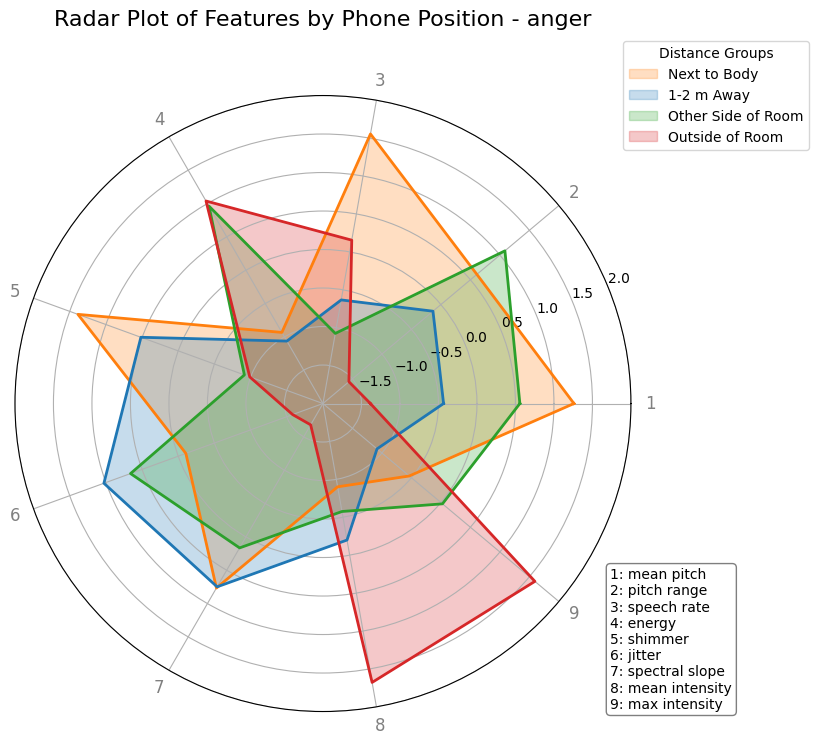
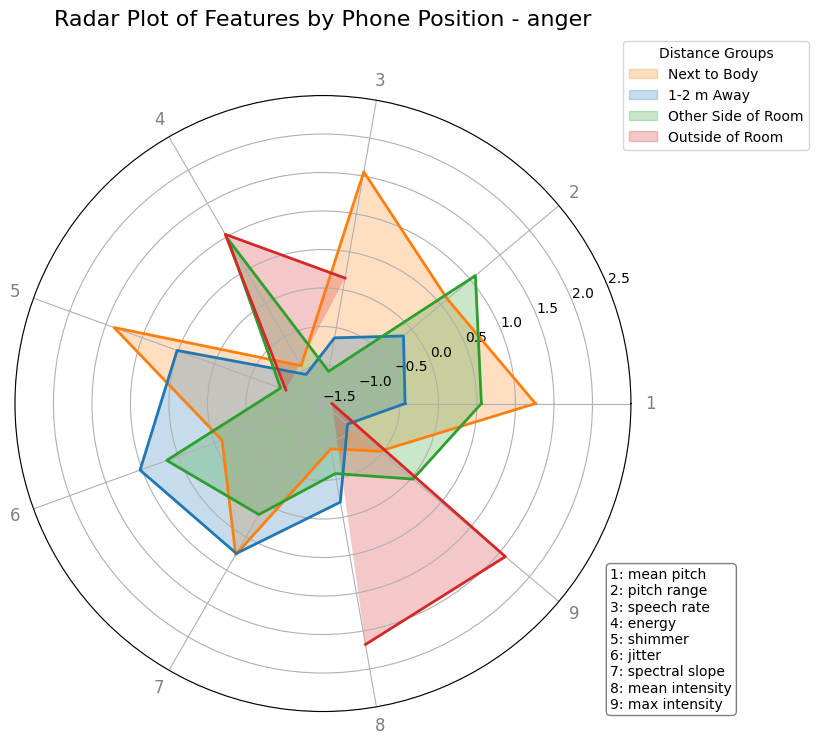
added same scaling

Changed region(s): [[0.0917, 0.1852, 0.7029, 0.9262], [0.7029, 0.3705, 0.7335, 0.4013]]

diff --git a/radarPlotNewFeatures.py b/radarPlotNewFeatures.py
@@ -99,7 +99,8 @@ def create_radar_plot_emotion(data, categories, title, filename):
 
     plt.xticks(angles[:-1], axis_labels, color='grey', size=12)
     ax.yaxis.grid(True)
-    ax.set_ylim(-2.2, 2)  # Adjust based on the data
+    ax.set_ylim(-1.5, 2.5)  # Adjust based on the data
+    ax.set_yticks([-1.5,-1.0,-0.5, 0, 0.5, 1.0, 1.5, 2.0, 2.5])  # Fixed ticks at -1.5, 0, and 2.5
     plt.title(title, size=16, y=1.1)
     
     # legend for emotions
@@ -183,7 +184,8 @@ def create_radar_plot_distance(data, categories, title, filename):
 
     plt.xticks(angles[:-1], axis_labels, color='grey', size=12)
     ax.yaxis.grid(True)
-    ax.set_ylim(-2, 1.7)  # Adjust based on the data
+    ax.set_ylim(-1.5, 2.5)  # Adjust based on the data
+    ax.set_yticks([-1.5,-1.0,-0.5, 0, 0.5, 1.0, 1.5, 2.0, 2.5])  # Fixed ticks at -1.5, 0, and 2.5
     plt.title(title, size=16, y=1.1)
     plt.legend(loc='upper right', bbox_to_anchor=(1.3, 1.1), title="Distance Groups")
 
@@ -192,6 +194,85 @@ def create_radar_plot_distance(data, categories, title, filename):
 
 # Create radar plot for distance groups
 create_radar_plot_distance(normalized_distance_data, FEATURES, "Radar Plot of Features by Phone Position Groups", "radar_plot_distance_groups.png")
+
+#per emotion
+# Function to create radar plot for a single emotion
+def create_radar_distance_per_emotion(data, emotion, categories, title, filename):
+    num_vars = len(categories)
+    angles = [n / float(num_vars) * 2 * pi for n in range(num_vars)]
+    angles += angles[:1]
+
+    # Number the axes
+    axis_labels = list(range(1, len(categories) + 1))
+
+    # Sorting the groups to control legend order
+    sorted_data = data.sort_values(by='distance_group', key=lambda x: x.map({
+        'Next to Body': 1,
+        '1-2 m Away': 2,
+        'Other Side of Room': 3,
+        'Outside of Room': 4
+    }))
+
+    fig, ax = plt.subplots(figsize=(10, 8), subplot_kw=dict(polar=True))
+    colors = plt.cm.tab10(range(len(data)))
+
+    for i, row in sorted_data.iterrows():
+        values = row.drop('distance_group').values.flatten().tolist()
+        values += values[:1]
+        ax.fill(angles, values, alpha=0.25, color=colors[i], label=row['distance_group'])
+        ax.plot(angles, values, linewidth=2, color=colors[i])
+
+    plt.xticks(angles[:-1], axis_labels, color='grey', size=12)
+    ax.yaxis.grid(True)
+    ax.set_ylim(-1.5, 2.5)  # Adjust based on the data
+    ax.set_yticks([-1.5,-1.0,-0.5, 0, 0.5, 1.0, 1.5, 2.0, 2.5])  # Fixed ticks at -1.5, 0, and 2.5
+    plt.title(f"{title} - {emotion}", size=16, y=1.1)
+    plt.legend(loc='upper right', bbox_to_anchor=(1.3, 1.1), title="Distance Groups")
+    
+    # legend for features
+    legend_elements = [f"{i}: {category}" for i, category in enumerate(categories, 1)]
+    legend_text = "\n".join(legend_elements)
+    plt.gcf().text(0.8, 0.2, legend_text, fontsize=10, va='center', bbox=dict(boxstyle="round", facecolor="white", alpha=0.5))
+
+    plt.savefig(os.path.join(RESULTS_FOLDER, filename), bbox_inches='tight')
+    plt.close()
+
+unique_emotions = data['emotion'].unique()
+
+for emotion in unique_emotions:
+    # Skip if the emotion is NaN
+    if pd.isna(emotion):
+        continue
+
+    # Filter data for the specific emotion
+    emotion_data = data[data['emotion'] == emotion]
+    
+    # Group by distance_group and calculate mean feature values
+    emotion_distance_group_data = emotion_data.groupby('distance_group')[FEATURES].mean().reset_index()
+
+    # Check if the grouped data is empty
+    if emotion_distance_group_data.empty:
+        print(f"Warning: No data available for emotion: {emotion}")
+        continue  # Skip to the next emotion
+    
+    # Normalize the data for radar plotting
+    normalized_emotion_features = pd.DataFrame(
+        scaler.fit_transform(emotion_distance_group_data[FEATURES]),
+        columns=FEATURES
+    )
+    normalized_emotion_data = pd.concat([emotion_distance_group_data['distance_group'], normalized_emotion_features], axis=1)
+
+    # Create radar plot for the emotion
+    create_radar_distance_per_emotion(
+        normalized_emotion_data,
+        emotion,
+        FEATURES,
+        "Radar Plot of Features by Phone Position",
+        f"radar_plot_distance_{emotion.lower().replace(' ', '_')}.png"
+    )
+
+
+
 
 # Scatter plot for PCA
 def scatter_plot_pca(data, features, title, filename):
